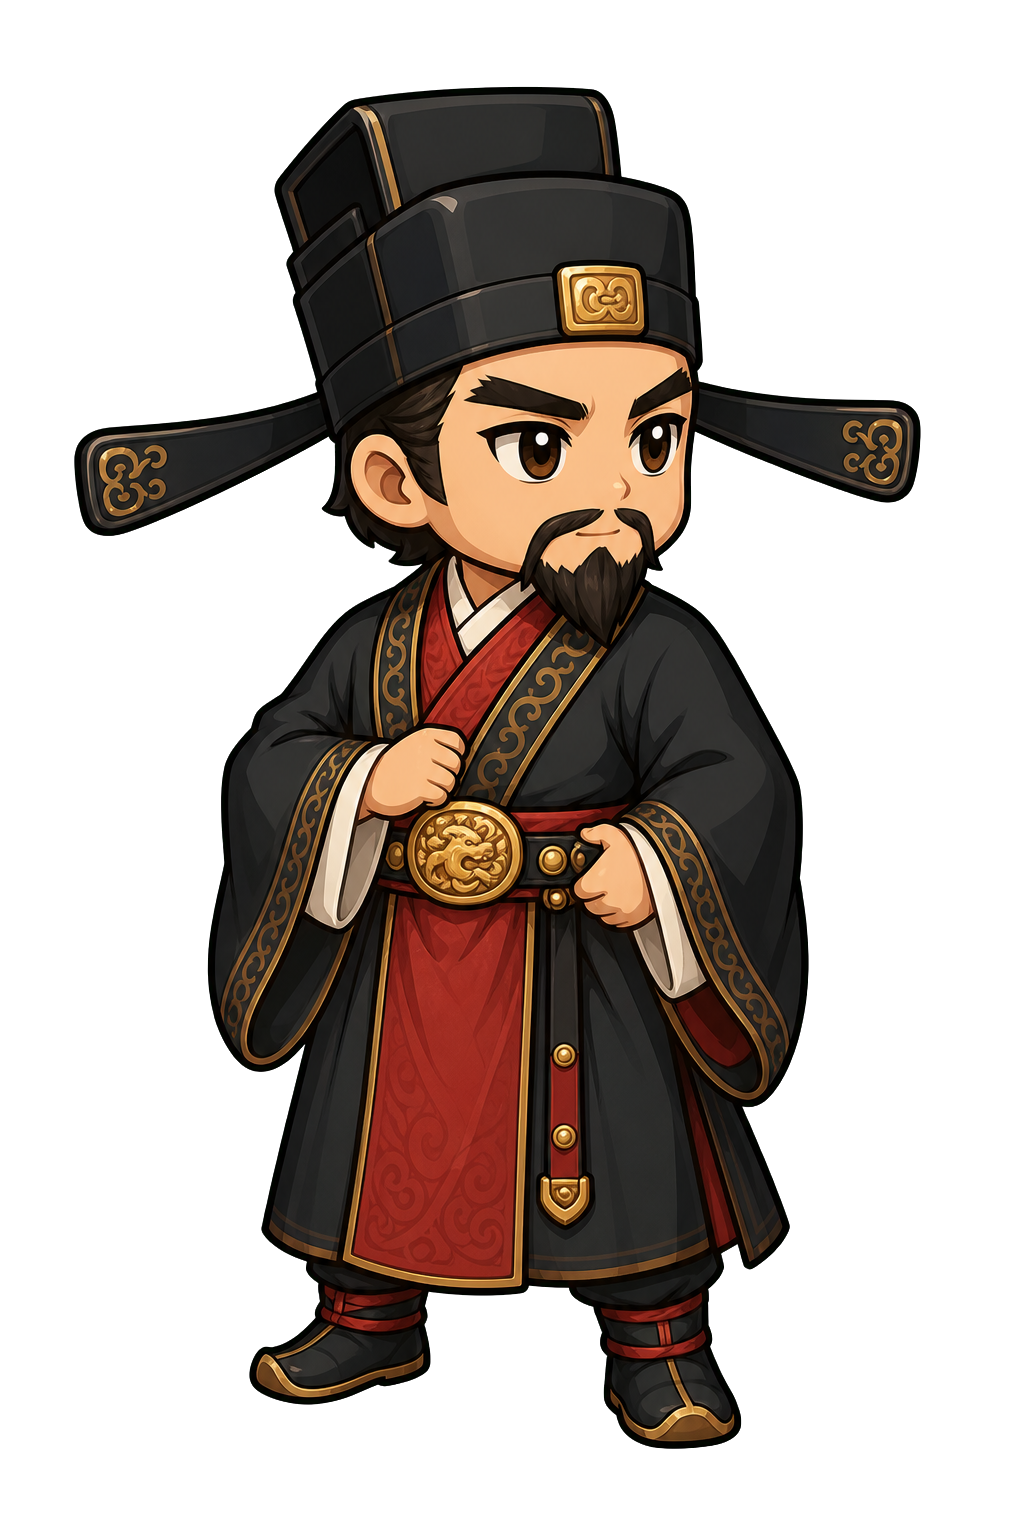
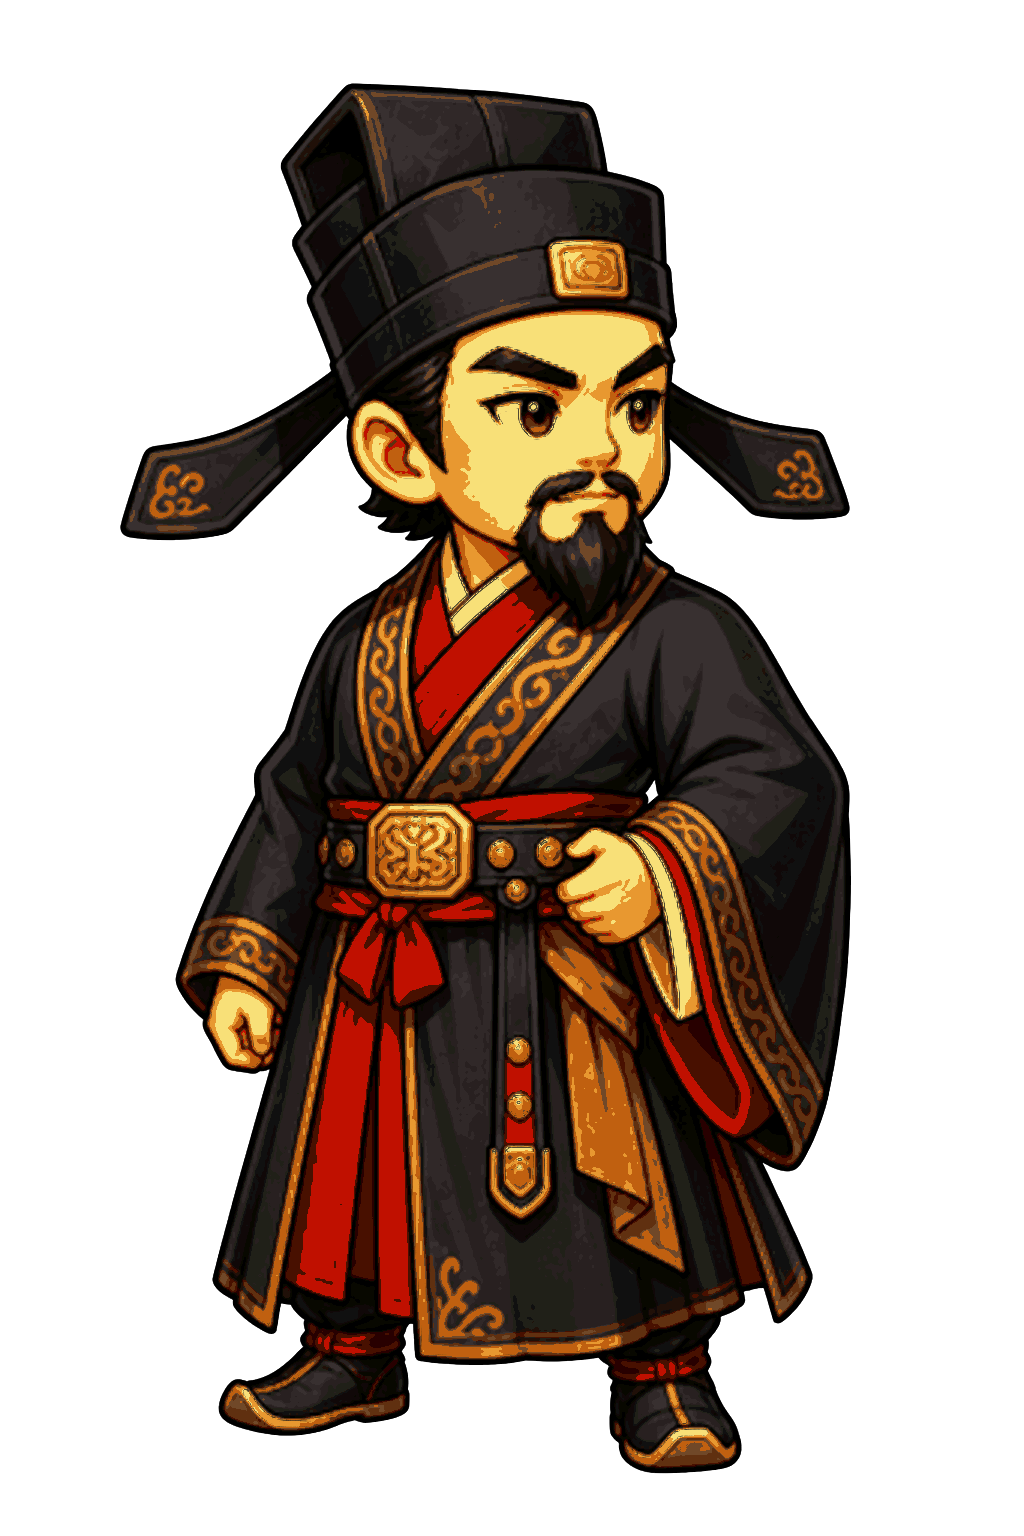
art: align Songjiang review samples

diff --git a/docs/assets/juyiting/songjiang-style-review/review.md b/docs/assets/juyiting/songjiang-style-review/review.md
@@ -2,33 +2,30 @@
 
 ## Official review gate mapping
 
-The required A/B/C review gate is formalized from the broader exploration set as follows:
+The required A/B/C review gate uses one locked character drawing and geometry:
 
-- **Official Sample A** = exploration **Sample H** (selected direction)
-- **Official Sample B** = exploration **Sample J** (woodblock alternative)
-- **Official Sample C** = exploration **Sample K** (clean mascot alternative)
+- **Official Sample A** = exploration **Sample H**, the selected semi-realistic hand-painted Q-version direction.
+- **Official Sample B** = a raster style transformation derived from official Sample A: cool muted traditional ink/wash treatment, softer and broken edge treatment, and reduced detail.
+- **Official Sample C** = a raster style transformation derived from official Sample A: high-contrast clean animation/cel treatment, flatter palette, and simplified detail.
 
-Exploration Samples H?K and the other exploration files are retained as supplemental review evidence. The official `sample-a.png`, `sample-b.png`, and `sample-c.png` files are byte-for-byte copies of their mapped exploration samples.
+Official Samples B and C preserve Sample A's exact dimensions, pose, silhouette, body and costume geometry, camera, framing, and alpha-mask footprint. Exploration Samples J and K remain separate supplemental alternatives and are no longer mapped to official B or C. The remaining exploration files are also retained as supplemental review evidence.
 
 ## Scores
 
-| Criterion | Sample A | Sample B | Sample C |
+| Criterion | A | B | C |
 | --- | ---: | ---: | ---: |
 | Reads at game scale | 5 | 5 | 5 |
 | Matches hall palette | 5 | 4 | 3 |
 | Silhouette identifies Songjiang | 5 | 5 | 4 |
 | Animation-ready costume detail | 5 | 4 | 5 |
+Decision: Sample A
+Approved by: Richow
+Approved at: 2026-07-15T00:26:32+08:00
 
-## Decision
-
-- **Decision:** Sample A
-- **Approved by:** Richow
-- **Approved at:** 2026-07-15T00:26:32+08:00
-
-Sample A is the H direction: semi-realistic hand-painted Q-version. Final production should strengthen the outline and simplify small details for approximately 66x66 CSS px presentation.
+Sample A remains the approved H direction: semi-realistic hand-painted Q-version. Final production should strengthen the outline and simplify small details for approximately 66x66 CSS px presentation.
 
 These images are review samples, not a final sprite sheet.
 
 ## Generation method
 
-Built-in image generation, followed by chroma-key removal to transparent PNG.
+Sample A was created with built-in image generation followed by chroma-key removal to transparent PNG. Official Samples B and C were derived deterministically from Sample A through local raster color, tone, texture, edge, and detail transformations; no new character generation was used, and Sample A's alpha channel was preserved byte-for-byte.
